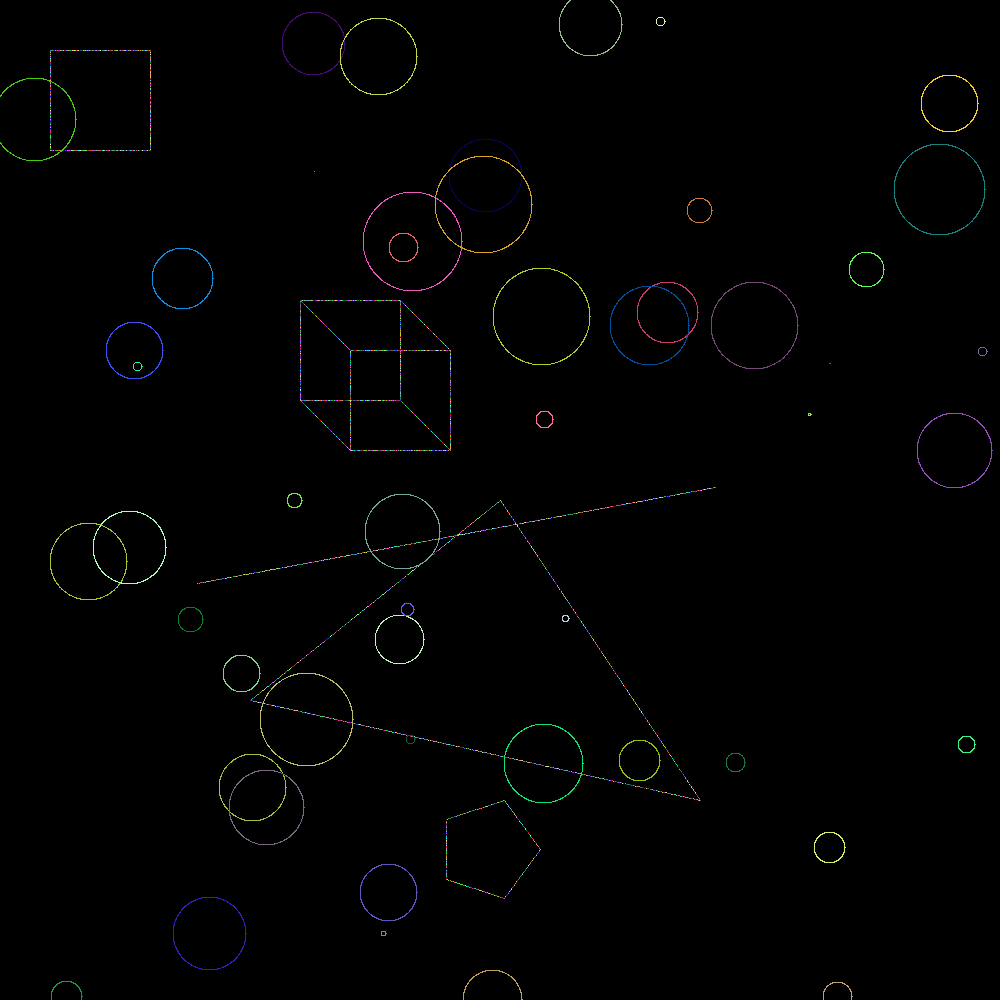
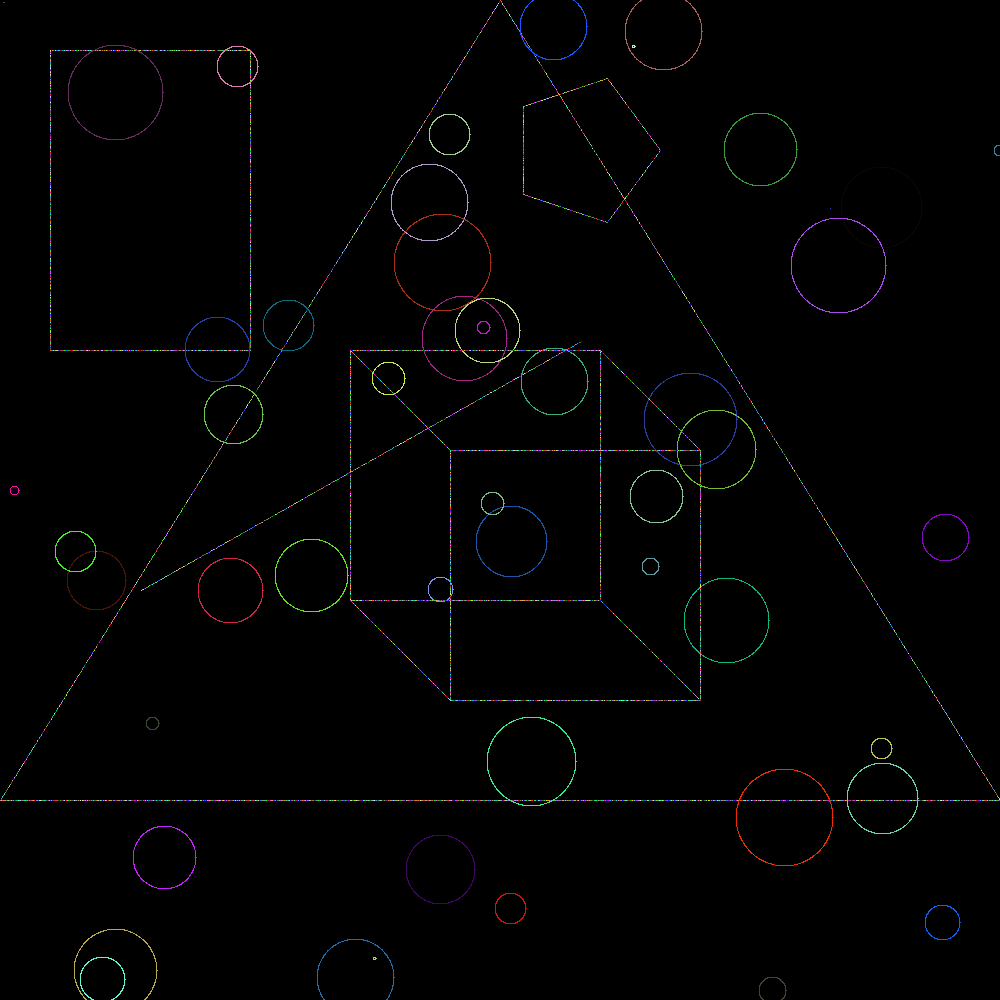
[FINISHED]

diff --git a/src/main.rs b/src/main.rs
@@ -11,13 +11,13 @@ fn main() {
 
     gs::Point::random(image.width, image.height).draw(&mut image);
 
-    let rectangle = gs::Rectangle::new(&gs::Point::new(150, 150), &gs::Point::new(50, 50));
+    let rectangle = gs::Rectangle::new(&gs::Point::new(250, 350), &gs::Point::new(50, 50));
     rectangle.draw(&mut image);
 
     let triangle = gs::Triangle::new(
-        gs::Point::new(500, 500),
-        gs::Point::new(250, 700),
-        gs::Point::new(700, 800),
+        gs::Point::new(500, 0),
+        gs::Point::new(0, 800),
+        gs::Point::new(1000, 800),
     );
     triangle.draw(&mut image);
 
@@ -29,9 +29,9 @@ fn main() {
     }
 
     let cube = gs::Cube::new(
-        gs::Point::new(300, 300),
         gs::Point::new(350, 350),
-        100
+        gs::Point::new(450, 450),
+        250
     );
     cube.draw(&mut image);
 

diff --git a/README.md b/README.md
@@ -59,6 +59,10 @@ note: to see what the problems were, use the option `--future-incompat-report`, 
      Running `target/debug/drawing`
 ```
 
+Then in the image.png in the root:
+
+![Drawings](./image.png)
+
 ## Contributors
 
 [![babacandiaye](https://shields.io/badge/babacandiaye-Zone01-blue)](http://learn.zone01dakar.sn/git/babacandiaye)
